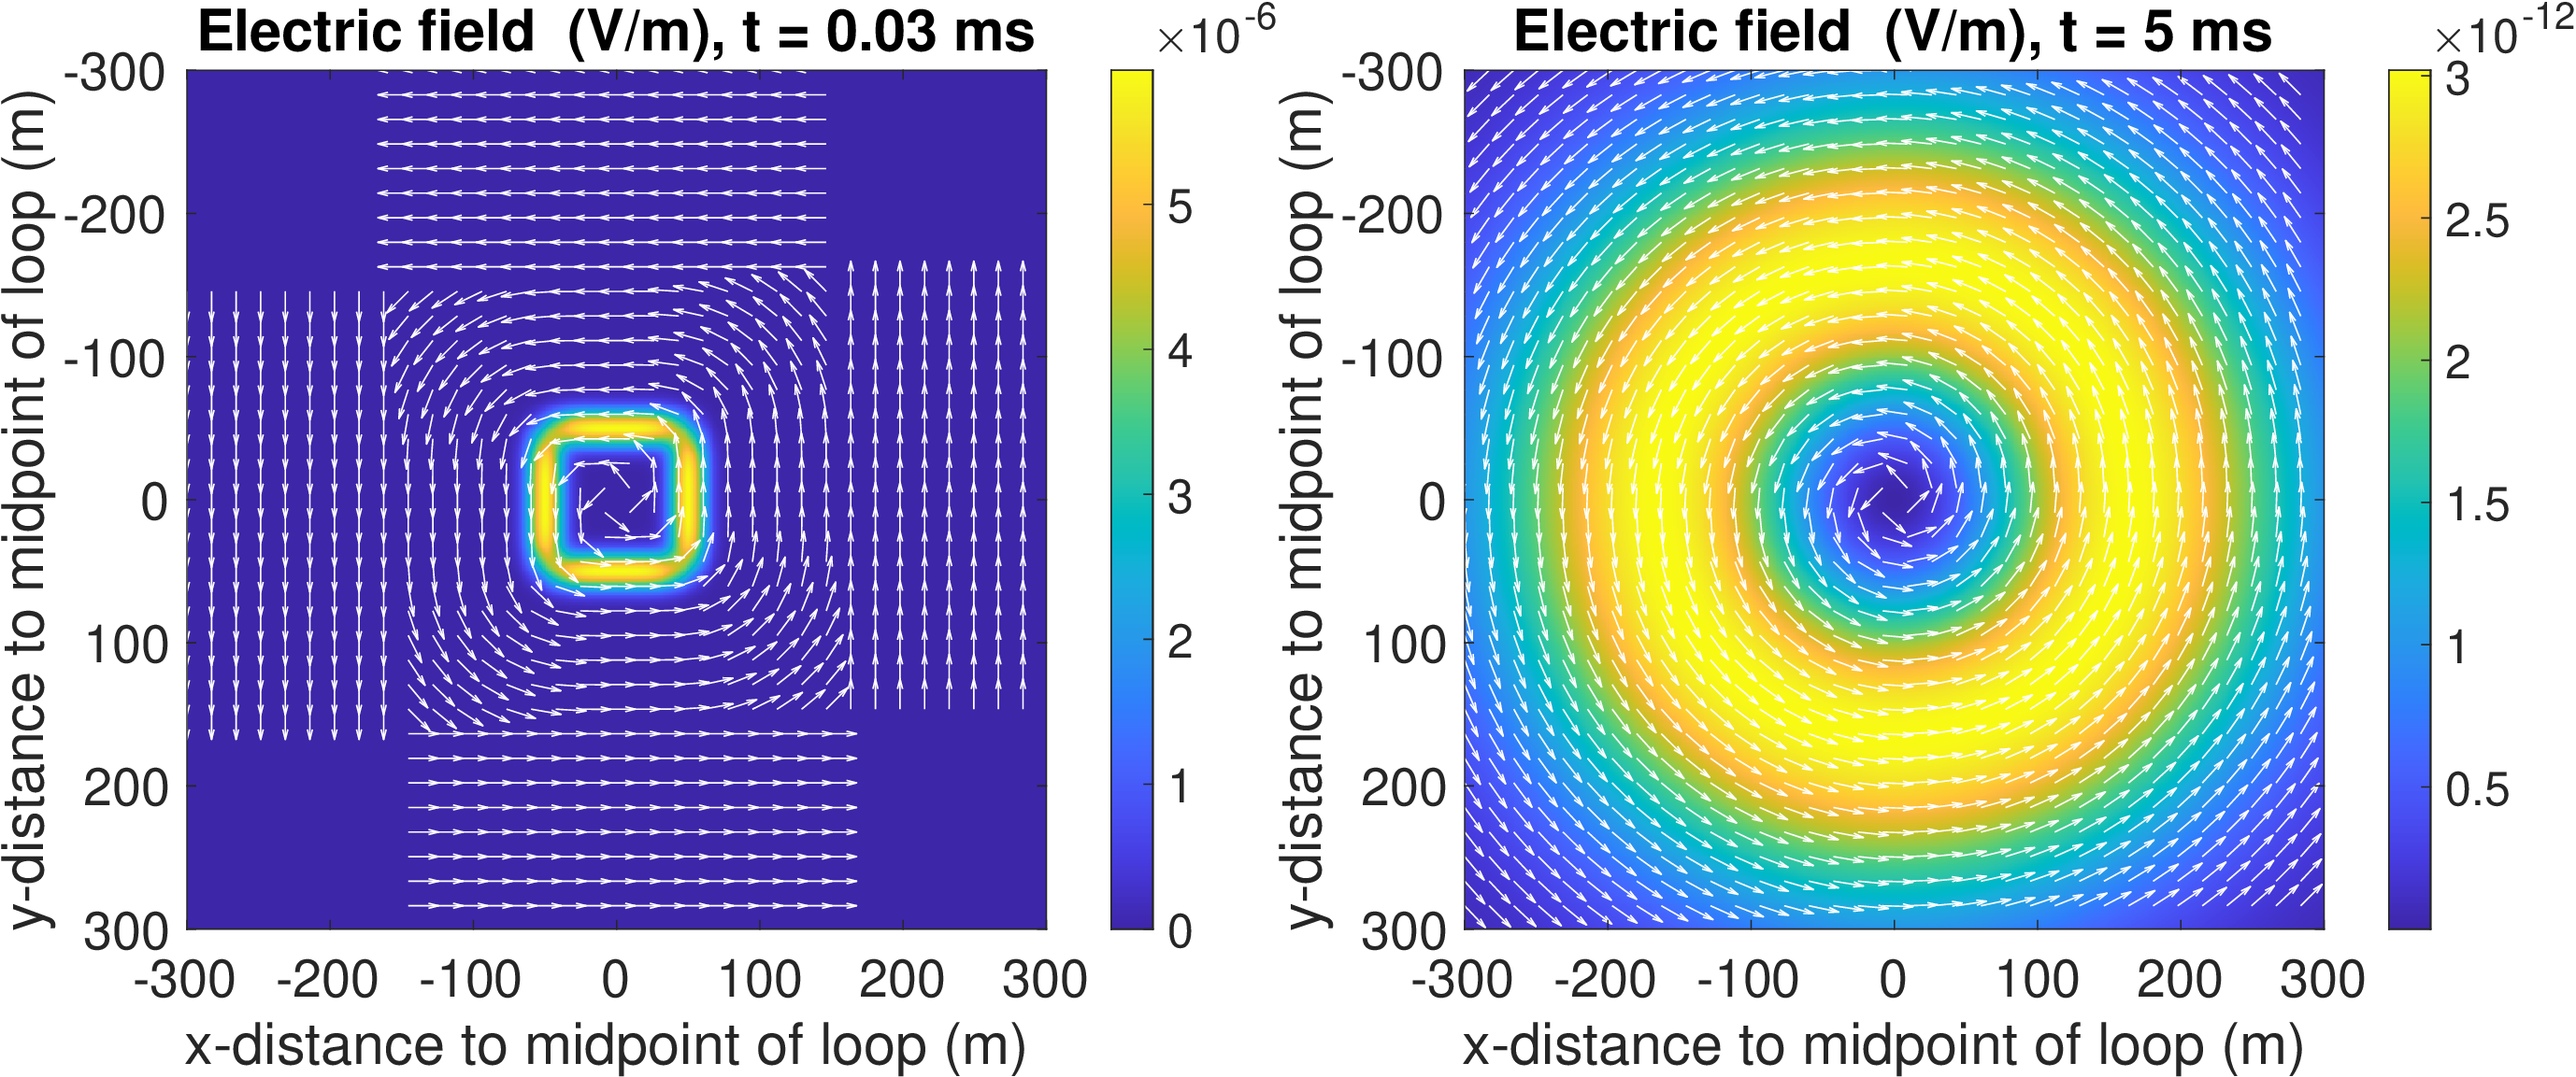
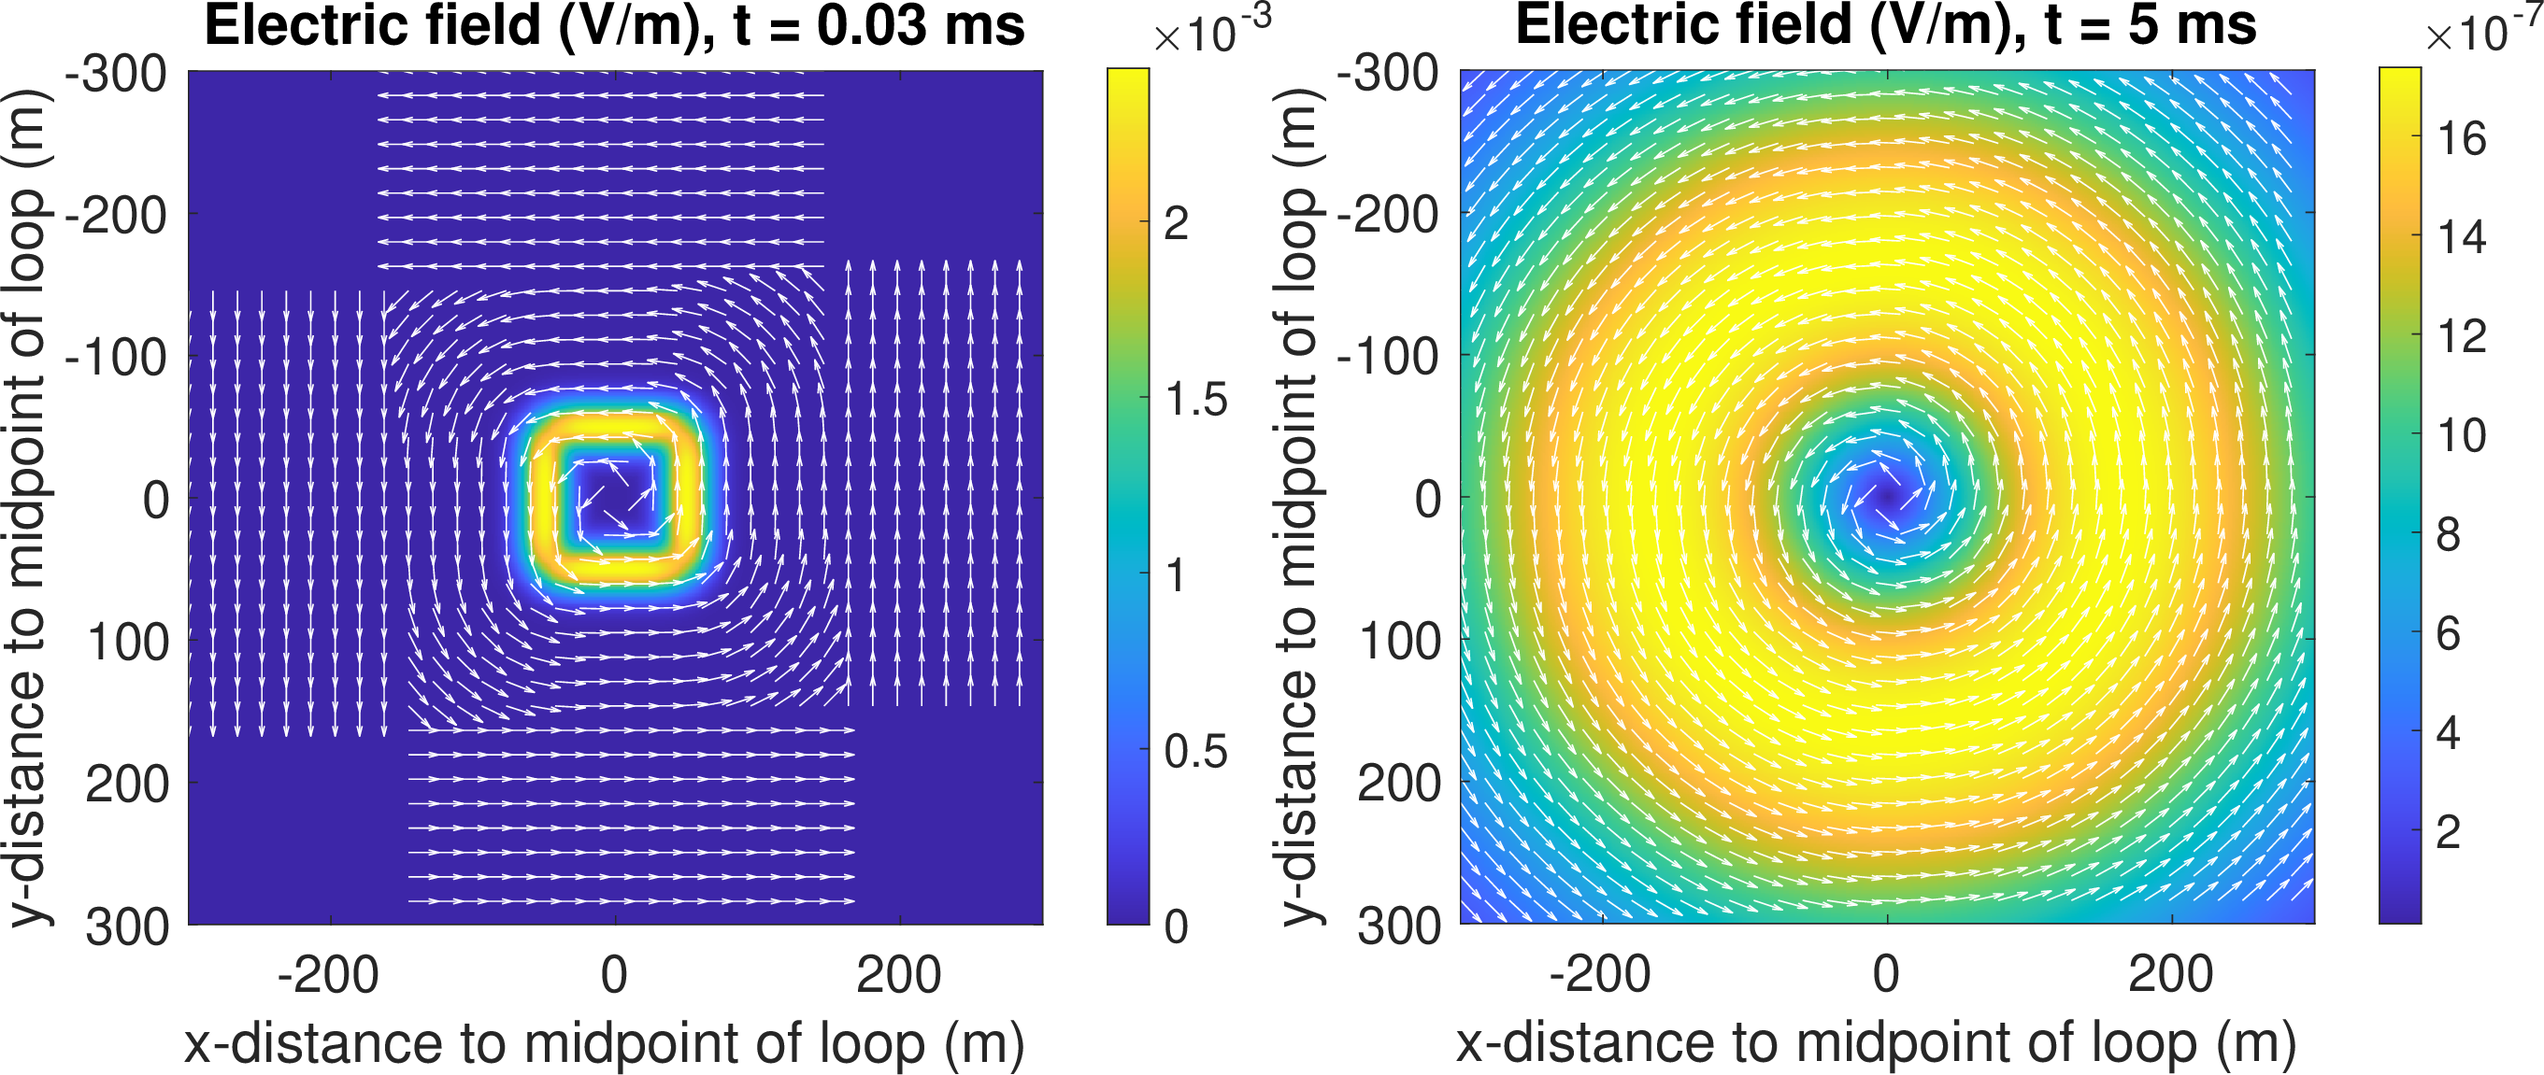
Regenerate the loop-source figures and correct the decay-rate discussion

diff --git a/book/3_diffusion_fields/em_diffusion.md b/book/3_diffusion_fields/em_diffusion.md
@@ -405,11 +405,11 @@ $$ (eq:Eyloop)
 The electric field $E_y$ generated by a unit step switch-on current in the $(x,z)$-plane at $y=0$ m, for times $0.03$ ms (left plot) and $5$ ms (right plot).
 ```
 
-At very early times and not too far away from the loop in the $z$-direction, the electric field shows the shape of the loop but the vector points in the opposite direction of the current vector in the loop. This can be seen in {numref}`fig-et12xy` where the magnitude of the electric field vector is shown in colour in the $(x,y)$-plane at $z=10$ m, at $t=0.03$ ms (left plot) and $t=5$ ms (right plot) and the white arrows show the direction of the electric field. At $t=0.03$ ms, the left plot shows that far away from the line segments, the electric field is fully aligned with but points in opposite direction as the current direction in the line segments, but the amplitude is very small. Curvature of the field lines going around the loop can be seen closer to the loop and is again almost fully aligned with the line segments just above them, but also here the field points in the opposite direction as the source current. At the later time of 5 ms, the right plot shows that the shape of the source loop is lost and the electric field is almost circular inside and around the loop. Notice also that the field strength has decreased by six orders of magnitude, which seems to suggest that the decay is faster in the $(x,y)$-plane for fixed depth than in the $(x,z)$-plane for fixed $y$. This will be reduced when larger depth values are chosen, because then the influence of the horizontal distances decreases.
+At very early times and not too far away from the loop in the $z$-direction, the electric field shows the shape of the loop but the vector points in the opposite direction of the current vector in the loop. This can be seen in {numref}`fig-et12xy` where the magnitude of the electric field vector is shown in colour in the $(x,y)$-plane at $z=10$ m, at $t=0.03$ ms (left plot) and $t=5$ ms (right plot) and the white arrows show the direction of the electric field. At $t=0.03$ ms, the left plot shows that far away from the line segments, the electric field is fully aligned with but points in opposite direction as the current direction in the line segments, but the amplitude is very small. Curvature of the field lines going around the loop can be seen closer to the loop and is again almost fully aligned with the line segments just above them, but also here the field points in the opposite direction as the source current. At the later time of 5 ms, the right plot shows that the shape of the source loop is lost and the electric field is almost circular inside and around the loop. Notice also that the field strength has decreased by three orders of magnitude, the same factor as in the $(x,z)$-plane. Once the diffusion distance $D$ exceeds the size of the loop, the error function bracket goes as $L_y/D$ and the difference of exponentials as $2xL_x/D^2$, so away from the symmetry axes the field falls off as $t^{-5/2}$ at every position. The rate is a property of the diffusion, not of the direction we look in.
 
 ```{figure} figures/Eyt_xy.png
 :name: fig-et12xy
 :width: 100%
 
-The electric field $E_y$ generated by a unit step switch-on current in the $(x,y)$-plane at $z=10$ m, for times $0.03$ ms (left plot) and $5$ ms (right plot).
+The magnitude $|\boldsymbol E|$ of the electric field generated by a unit step switch-on current in the $(x,y)$-plane at $z=10$ m, for times $0.03$ ms (left plot) and $5$ ms (right plot). The white arrows give the direction of the field.
 ```
